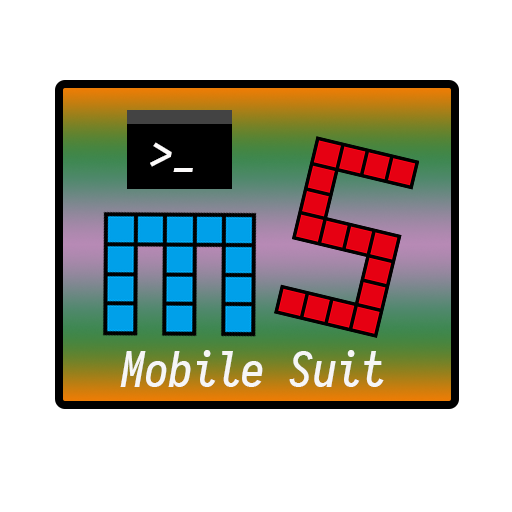
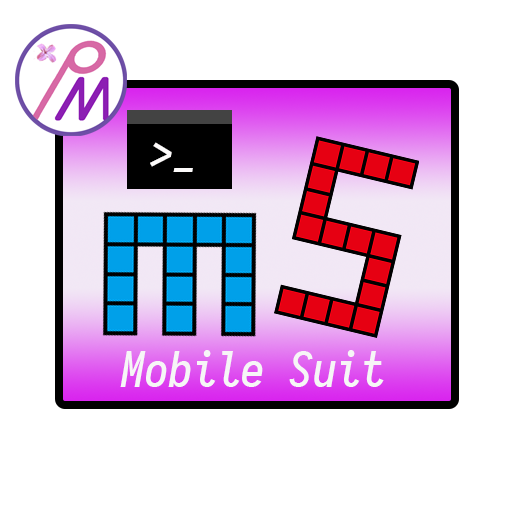
Update Readme.md

diff --git a/README.md b/README.md
@@ -1,3 +1,7 @@
+<div  align=center>
+    <img src="src/icon.png" width = 30% height = 30%  />
+</div>
+
 # MobileSuit
 
 ![nuget](https://img.shields.io/nuget/v/PlasticMetal.MobileSuit?style=flat-square) 
@@ -15,8 +19,10 @@ For Example: HIT-Schedule-Master CLI
 
 ![MsRtExample-1](images/MsRtExample-1.png)
 
+with PowerLine theme & I18N support
 
+![MsRtExample-2](images/MsRtExample-2.png)
 
-[View English Documentation ](https://ferdinandsukhoi.github.io/docs/en-US/MobileSuit/) in my Blog
+[View English Documentation](https://ferdinandsukhoi.github.io/docs/en-US/MobileSuit/) in my Blog
 
 在我的博客[查看中文文档](https://ferdinandsukhoi.github.io/docs/zh-CN/MobileSuit/)
